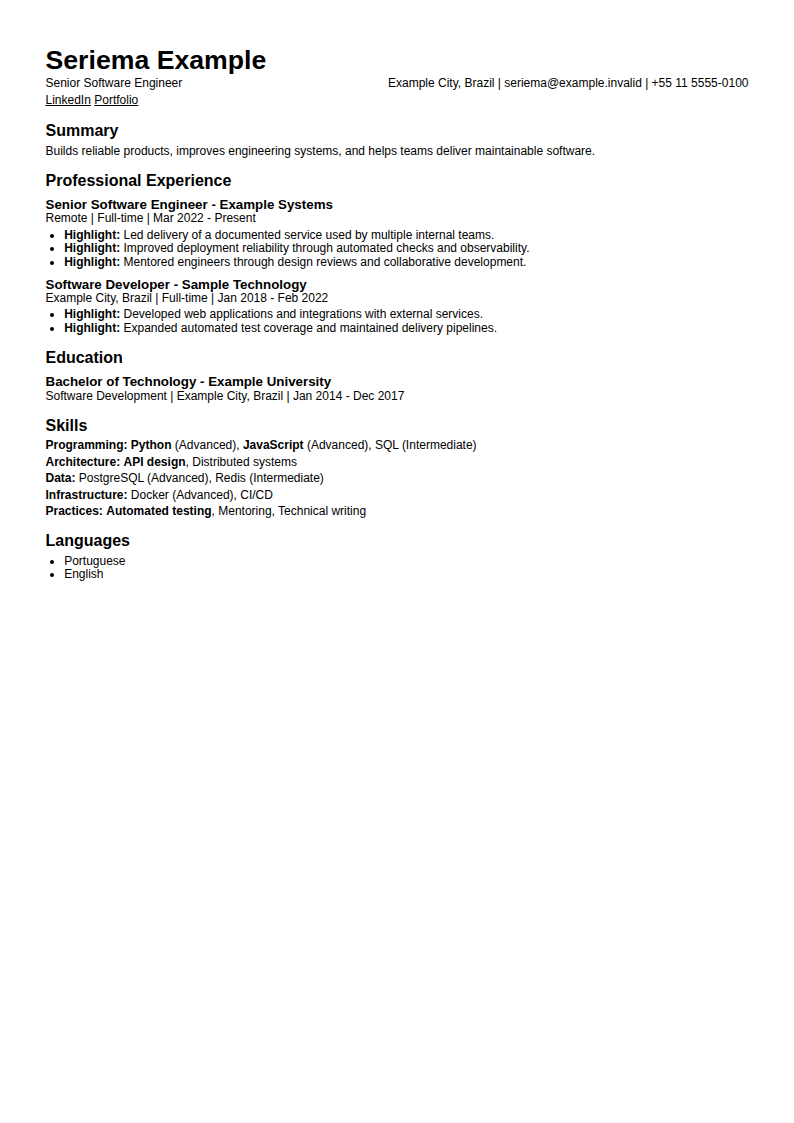
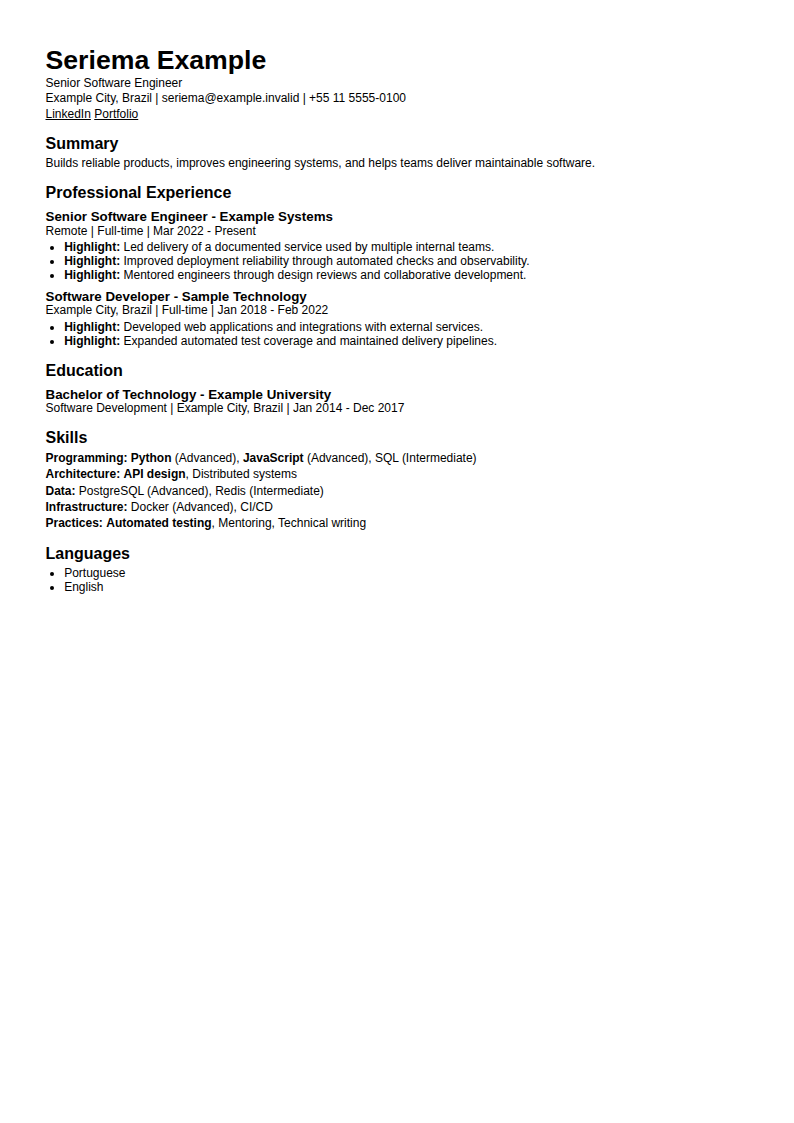
fix(resume): evita corte de nomes no compact

Changed region(s): [[0.0605, 0.0623, 0.937, 0.5298]]

diff --git a/src/seriemacv/assets/styles/compact/print.css b/src/seriemacv/assets/styles/compact/print.css
@@ -2,9 +2,9 @@
 * { box-sizing: border-box; }
 body { margin: 0; color: {{primary_color}}; font: {{body_size_pt}}pt {{font_family}}, sans-serif; line-height: {{line_spacing}}; }
 main { max-width: {{content_width_mm}}mm; margin: auto; }
-header { display: grid; grid-template-columns: 1fr auto; column-gap: 8pt; align-items: end; }
-header h1 { grid-column: 1; margin: 0; font-size: {{name_size_pt}}pt; }
-header .title { grid-column: 1; }
+header { display: block; }
+header h1 { margin: 0; font-size: {{name_size_pt}}pt; }
+header .title { margin-top: 1pt; }
 header p { margin: 1pt 0; }
 h2 { margin: {{section_spacing_pt}}pt 0 3pt; border-bottom: 1px solid {{accent_color}}; font-size: {{section_size_pt}}pt; }
 h3 { margin: 5pt 0 0; font-size: {{record_size_pt}}pt; }

diff --git a/src/seriemacv/assets/styles/compact-alt/print.css b/src/seriemacv/assets/styles/compact-alt/print.css
@@ -2,9 +2,9 @@
 * { box-sizing: border-box; }
 body { margin: 0; color: {{primary_color}}; font: {{body_size_pt}}pt {{font_family}}, sans-serif; line-height: {{line_spacing}}; }
 main { max-width: {{content_width_mm}}mm; margin: auto; }
-header { display: grid; grid-template-columns: 1fr auto; column-gap: 8pt; align-items: end; }
-header h1 { grid-column: 1; margin: 0; font-size: {{name_size_pt}}pt; }
-header .title { grid-column: 1; }
+header { display: block; }
+header h1 { margin: 0; font-size: {{name_size_pt}}pt; }
+header .title { margin-top: 1pt; }
 header p { margin: 1pt 0; }
 h2 { margin: {{section_spacing_pt}}pt 0 3pt; font-size: {{section_size_pt}}pt; }
 h3 { margin: 5pt 0 0; font-size: {{record_size_pt}}pt; }

diff --git a/tests/test_renderer.py b/tests/test_renderer.py
@@ -332,6 +332,15 @@ class MarkdownRendererTests(unittest.TestCase):
 
                 self.assertNotIn("border", header_rule)
 
+    def test_compact_keeps_contact_information_below_the_full_width_name(self) -> None:
+        for style_id in ("compact", "compact-alt"):
+            with self.subTest(style=style_id):
+                html = render_html(self._career(), "en", style_id)
+                header_rule = html.split("header {", 1)[1].split("}", 1)[0]
+
+                self.assertIn("display: block", header_rule)
+                self.assertNotIn("grid-template-columns", header_rule)
+
     def test_timeline_is_photo_free_and_places_each_date_in_the_rail(self) -> None:
         html = render_html(self._career(), "en", "timeline")
         document = Document(BytesIO(render_docx(self._career(), "en", "timeline")))
